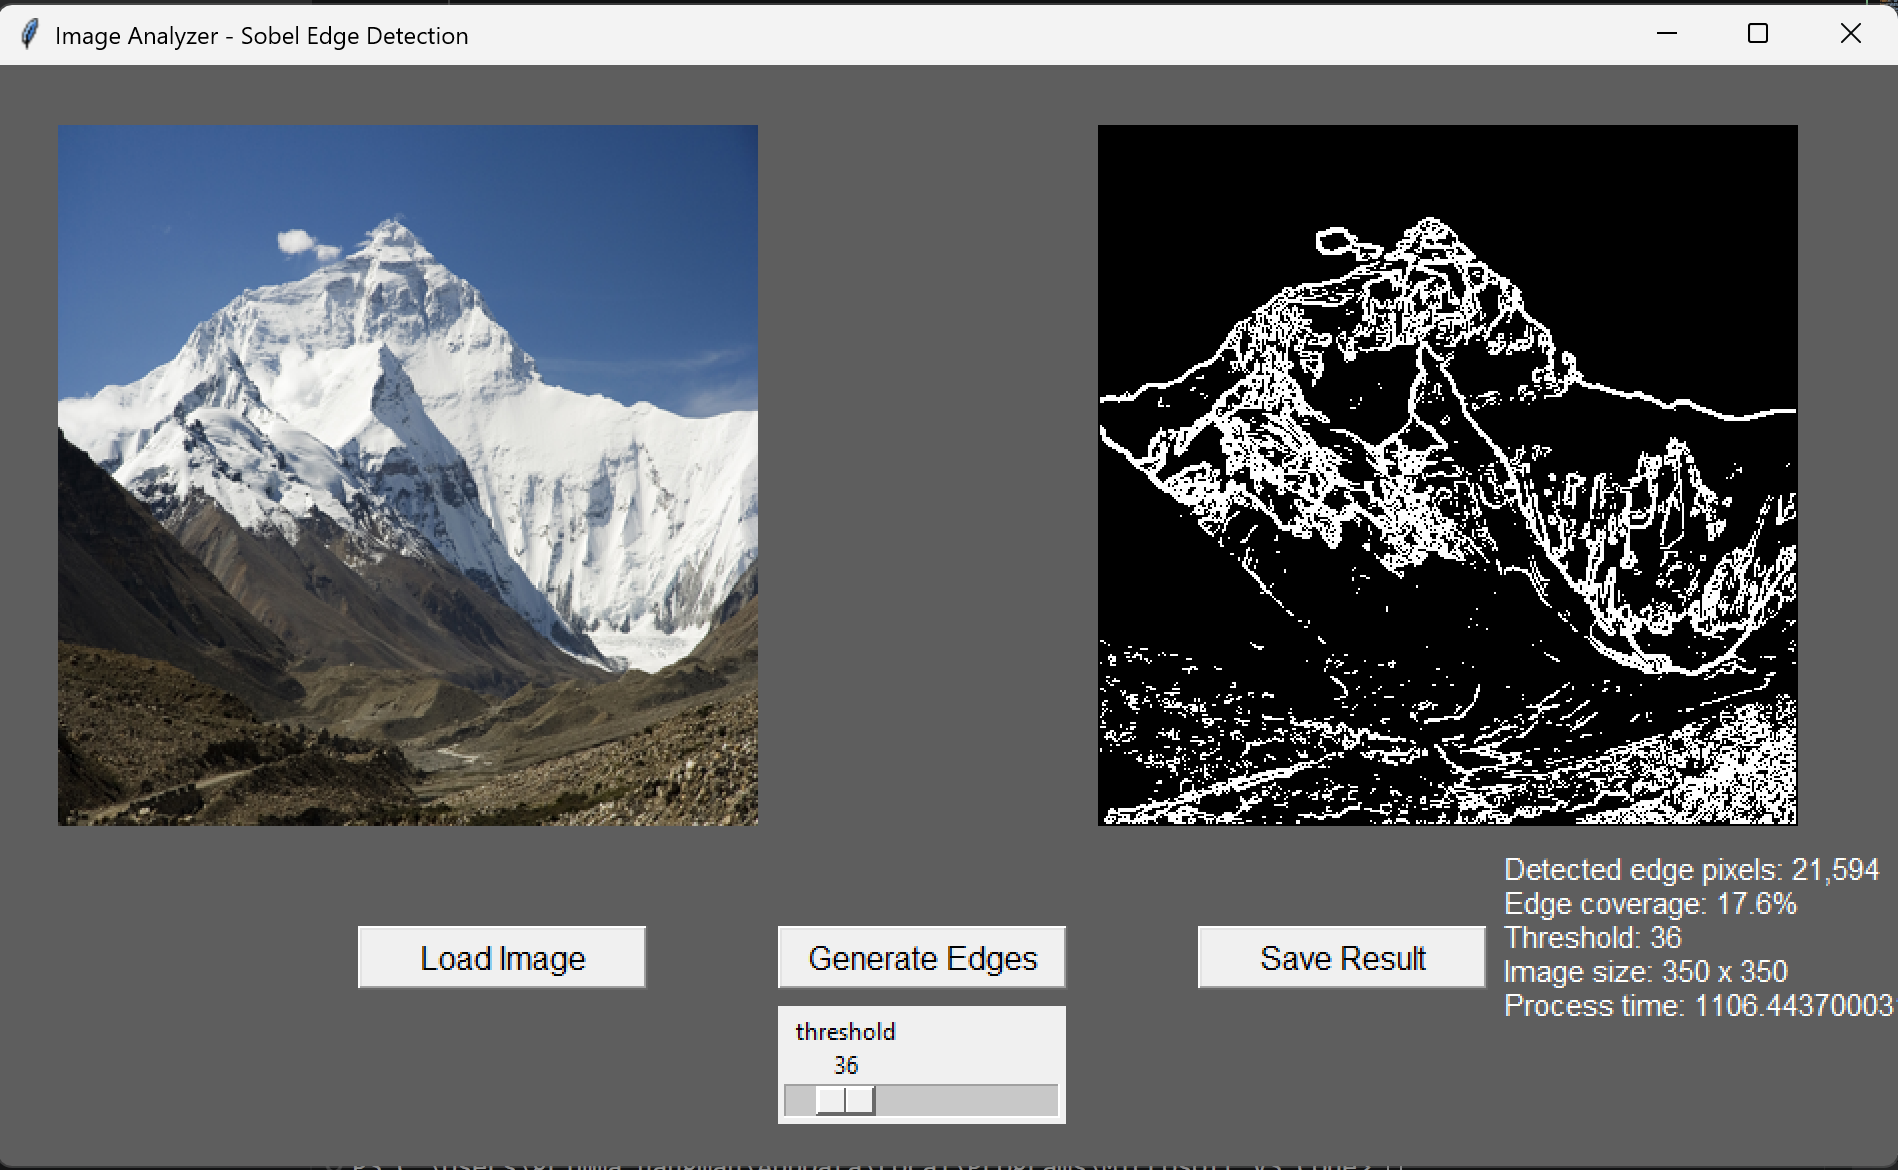
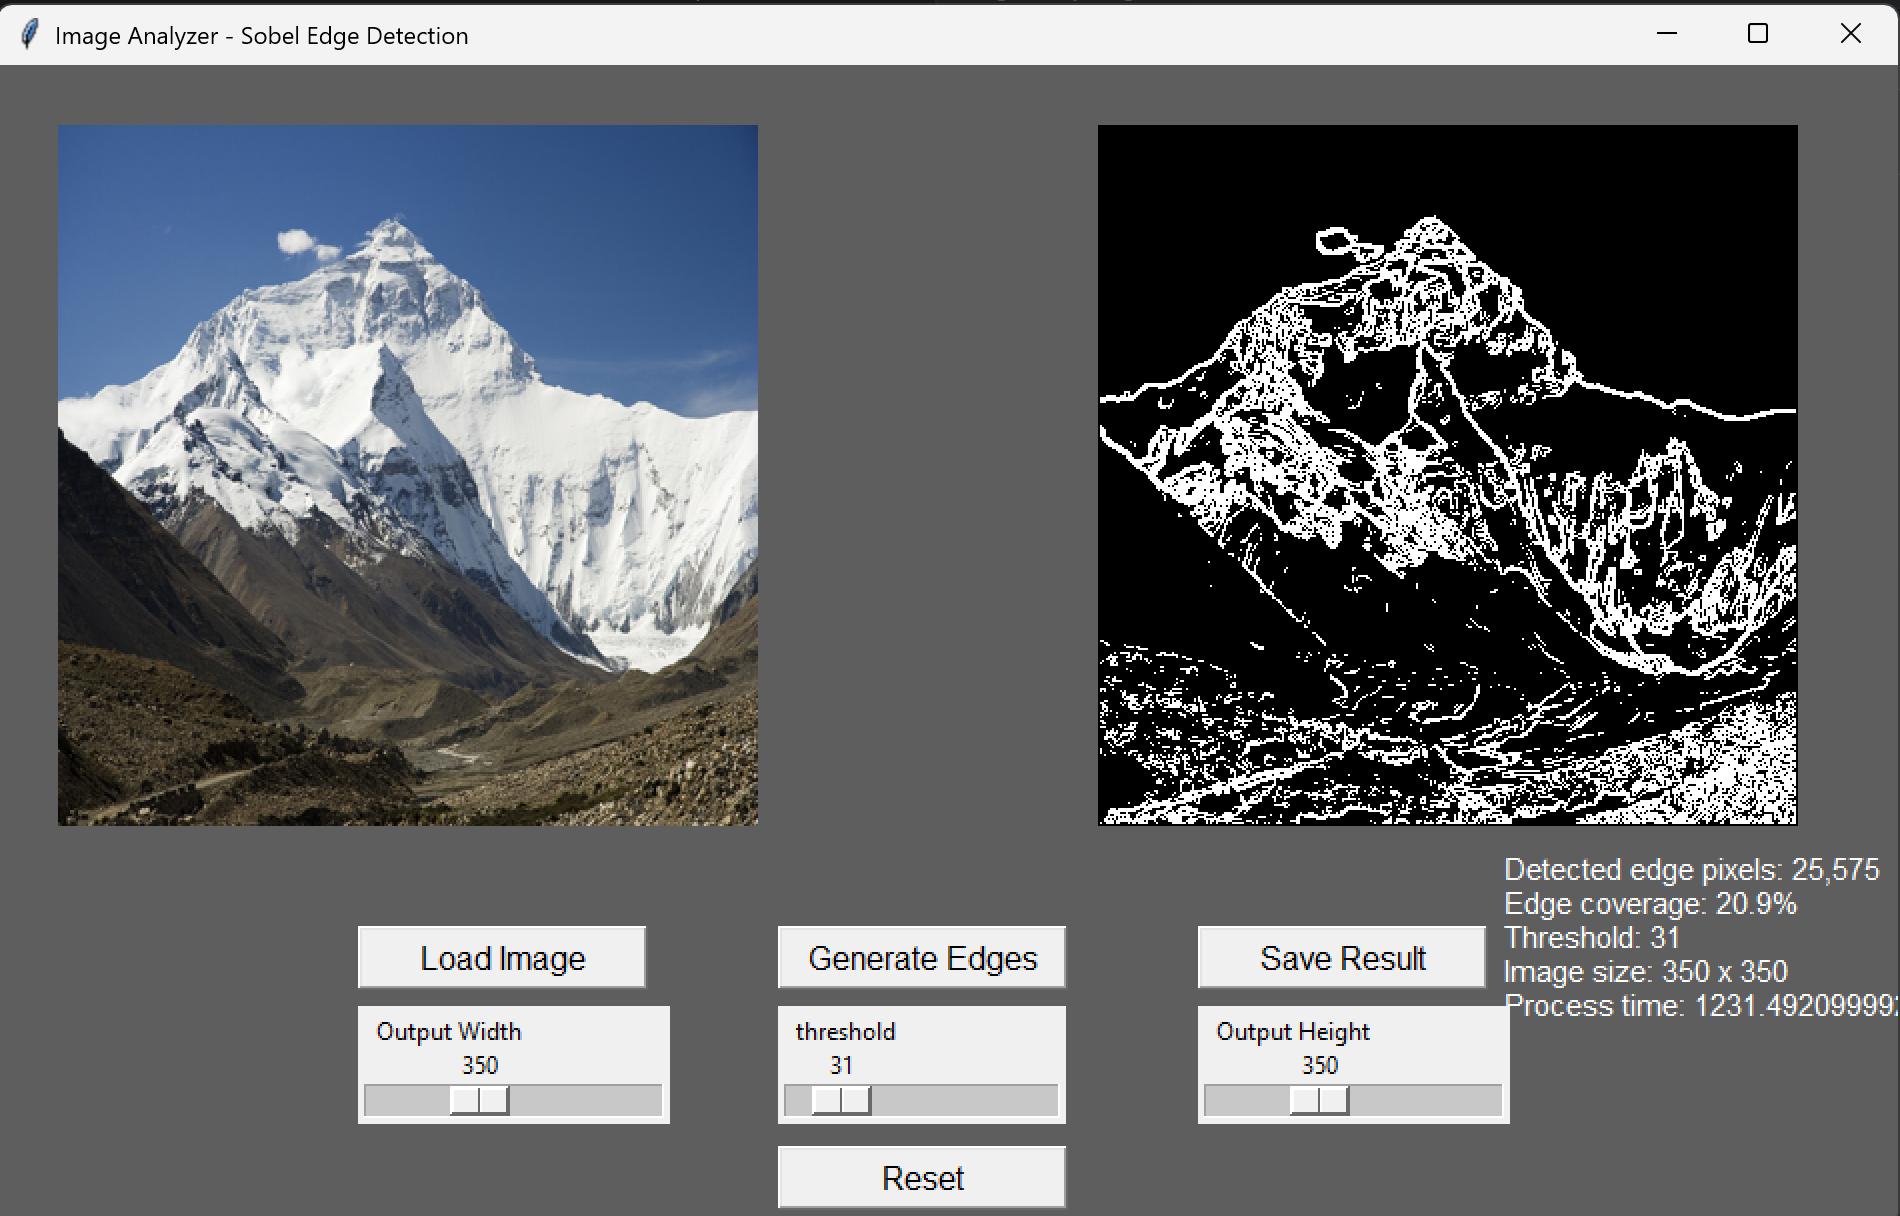
added reset button

diff --git a/app.py b/app.py
@@ -9,7 +9,7 @@ import numpy as np
 # -------------------------------
 root = Tk()
 root.title("Image Analyzer - Sobel Edge Detection")
-root.geometry("950x550")
+root.geometry("950x580")
 root.config(bg="#5E5E5E")
 
 IMG_WIDTH = 350
@@ -65,6 +65,55 @@ threshold_slider.place(x=390,y=470)
 threshold_slider.set(80)
 
 # -------------------------------
+# Image width and height slider
+# -------------------------------
+width_slider = Scale(
+    root,
+    from_=100,
+    to=800,
+    orient=HORIZONTAL,
+    label="Output Width",
+    length=150
+)
+width_slider.set(350)
+width_slider.place(x=180, y=470)
+
+height_slider = Scale(
+    root,
+    from_=100,
+    to=800,
+    orient=HORIZONTAL,
+    label="Output Height",
+    length=150
+)
+height_slider.set(350)
+height_slider.place(x=600, y=470)
+
+# -------------------------------
+# Reset image
+# -------------------------------
+def reset():
+    global original_img, generated_img
+
+    original_img = None
+    generated_img = None
+
+    left_label.config(image="", text="Original Image")
+    left_label.image = None
+
+    right_label.config(image="", text="Processed Image")
+    right_label.image = None
+
+    threshold_slider.set(80)
+
+    stats_label.config(
+        text="Detected edge pixels: -\n"
+             "Edge coverage: -\n"
+             "Threshold: -\n"
+             "Image size: -"
+    )
+
+# -------------------------------
 # Load Image
 # -------------------------------
 def load_image():
@@ -104,7 +153,12 @@ def generate_image():
         )
         return
 
-    gray = original_img.convert("L")
+    output_width = width_slider.get()
+    output_height = height_slider.get()
+
+    resized = original_img.resize((output_width, output_height))
+    gray = resized.convert("L")
+
     img_array = np.array(gray, dtype=float)
 
     Gx = np.array([
@@ -144,7 +198,9 @@ def generate_image():
     edge = edge.astype(np.uint8)
 
     generated_img = Image.fromarray(edge)
-    generated_tk = ImageTk.PhotoImage(generated_img)
+
+    display_img = generated_img.resize((IMG_WIDTH, IMG_HEIGHT))
+    generated_tk = ImageTk.PhotoImage(display_img)
 
     right_label.config(image=generated_tk, text="")
     right_label.image = generated_tk
@@ -221,6 +277,15 @@ save_button = Button(
     width=15
 )
 save_button.place(x=600, y=430)
+
+reset_button = Button(
+    root,
+    text="Reset",
+    command=reset,
+    font=("Arial", 12),
+    width=15
+)
+reset_button.place(x=390, y=540)
 
 # -------------------------------
 # Start Program
